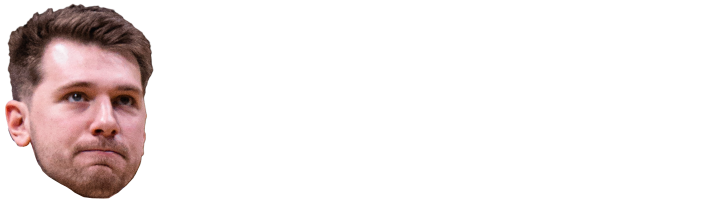
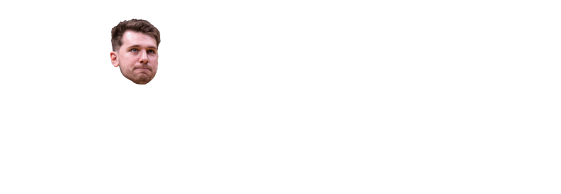
Update README

Changed region(s): [[0.0, 0.0, 0.303, 1.0]]

diff --git a/docs/conf.py b/docs/conf.py
@@ -76,6 +76,10 @@ html_theme_options = {
         "image_light": "_static/banner.png",
         "image_dark": "_static/banner-dark.png",
     },
+    "announcement": (
+        "⚠This package is a under active development."
+        + " Features are untested and may change without notice.⚠"
+    ),
 }
 
 # Sphinx project configuration

diff --git a/README.md b/README.md
@@ -1,3 +1,6 @@
+> [!CAUTION]
+> This package is a work in progress and under active development. Features have not been tested and may change without notice.
+
 [![PyPI](https://img.shields.io/pypi/v/liwca.svg)](https://pypi.org/project/liwca)
 [![Python Versions](https://img.shields.io/pypi/pyversions/liwca.svg)](https://pypi.org/project/liwca)
 [![Downloads](https://static.pepy.tech/badge/liwca)](https://pepy.tech/projects/liwca)
@@ -5,7 +8,7 @@
 [![Tests](https://github.com/remrama/liwca/actions/workflows/tests.yaml/badge.svg)](https://github.com/remrama/liwca/actions/workflows/tests.yaml)
 [![Coverage](https://codecov.io/gh/remrama/liwca/branch/main/graph/badge.svg)](https://codecov.io/gh/remrama/liwca)
 [![Ruff](https://img.shields.io/endpoint?url=https://raw.githubusercontent.com/astral-sh/ruff/main/assets/badge/v2.json)](https://github.com/astral-sh/ruff)
-[![Repo Status](https://www.repostatus.org/badges/latest/active.svg)](https://www.repostatus.org/#active)
+[![Repo Status](https://www.repostatus.org/badges/latest/wip.svg)](https://www.repostatus.org/#wip)
 
 <p align="center">
     <picture>
@@ -15,15 +18,18 @@
     </picture>
 </p>
 
-**_liwca_** (Linguistic Inquiry Word Count Assistant) offers helper functions for working with LIWC dictionaries. Useful when you want end-to-end pipelines or notebook workflows that don't require the LIWC-22 app to be open, or when you just need reusable `.dic[x]` file I/O without writing it from scratch every project. See the [online docs](https://remrama.github.io/liwca).
+**_liwca_** (*LOO-kə*), or **L**inguistic **I**nquiry **W**ord **C**ount **A**ssistant, provides helpers for working with [LIWC](https://www.liwc.app) dictionaries and related text analyses in Python.
 
-Features:
+- Read, write, and merge dictionary files (`.dic`, `dicx`)
+- Generate category and word frequencies
+- Generate Distributed Dictionary Representation ([DDR](https://link.springer.com/article/10.3758/s13428-017-0875-9)) scores
+- Run the LIWC app from Python (requires `LIWC-22-cli` access)
+- Download publicly accessible dictionaries, corpora, and other relevant datasets
 
-- Calling `LIWC-22-cli` from Python
-- Pure-Python word counting (no LIWC-22 needed)
-- Distributed Dictionary Representation scoring
-- Reading, writing, and merging dictionary files (`.dic`/`.dicx`)
-- Downloading public datasets, including dictionaries, corpora, and relevant tables
+See the [online docs](https://remrama.github.io/liwca) for more detail.
+
+> [!NOTE]
+> This is a personal project and not affiliated with the official LIWC app or any of the companies behind it.
 
 ## Installation
 
@@ -33,71 +39,157 @@ pip install --upgrade liwca
 
 ## Usage
 
-### LIWC-22 wrapper
+### Input/output
 
-Requires LIWC-22 app with academic license installed locally.
+Read and write local LIWC-style dictionary files as Pandas DataFrames with schema validation.
 
 ```python
 import liwca
 
-with liwca.Liwc22(count_urls=True) as liwc:
-    outpath = liwc.wc(
-        "data.csv",
-        "liwc-results.csv",
-        dictionary="LIWC22",
-        text_columns="text",
-    )
+# Read a local dic file
+dx = liwca.read_dic("my.dic")
+
+# Read a local dicx file
+dx = liwca.read_dicx("my.dicx")
+
+# Read a local weighted dicx file
+dx = liwca.read_dicx_weighted("myweighted.dicx")
+
+# Create a dictionary from a collection of words
+dx = liwca.create_dx(
+    {
+        "fruit": ["apple*", "pear*"],
+        "vegetables": ["broccoli", "carrot*"],
+    }
+)
+
+# Write the dictionary to a new file of any type
+liwca.write_dic(dx, "fruit.dic")
+liwca.write_dicx(dx, "fruit.dicx")
+liwca.write_dicx_weighted(dx, "fruitweighted.dicx")
 ```
 
 ### Word counting
 
-Pure-Python word counting using LIWC-style dictionaries (no LIWC-22 installation required).
+Get category-level frequency scores for each text in a corpus. This will provide similar results to `liwca.Liwc22().wc()`, but does not require the LIWC-22 app and has the optional benefit of returning word-level frequencies. This is possible because the [CountVectorizer](https://scikit-learn.org/stable/modules/generated/sklearn.feature_extraction.text.CountVectorizer.html) from `scikit-learn` is used to calculate frequencies instead of the LIWC-22 app.
 
-```python
-import liwca
-from liwca.datasets import dictionaries
-texts = ["I feel happy today", "This is a sad story"]
-dx = dictionaries.fetch_emfd()
-
-# Return results at document level
-doc_scores = liwca.count(texts, dx)
-
-# Return results at document and word level
-doc_scores, word_scores = liwca.count(texts, dx, return_words=True)
-```
-
-### Input/output
-
-Read and write LIWC-style dictionary files with schema validation.
+> [!WARNING]
+> Because the LIWC-22 app is not used to generate frequencies here, proprietary dictionaries built into the LIWC-22 app (e.g., `LIWC2015`, `LIWC22`) are not supported in `liwca.count()`.
 
 ```python
 import liwca
 
-# Read a dic file
-dx = liwca.read_dic("my.dic")
+# Generate some sample data
+food_texts = [
+    "My friends likes apples.",
+    "She prefers pears over carrots.",
+    "What I would do for a carrot right now!",
+    "I am excited for pancakes tomorrow morning.",
+]
+food_categories = {
+    "fruit": ["apple*", "pear*"],
+    "vegetables": ["broccoli", "carrot*"],
+}
+food_dx = liwca.create_dx(food_categories)
 
-# Read a dicx file
-dx = liwca.read_dicx("my.dicx")
+# Return results at the category and word levels
+cat_scores, word_scores = liwca.count(food_texts, food_dx, return_words=True)
 
-# Read a weighted dicx file
-dx = liwca.read_dicx_weighted("myweighted.dicx")
+cat_scores
+# Category  WC  fruit  vegetables
+# text_id
+# 0          4   0.25    0.000000
+# 1          5   0.20    0.200000
+# 2          9   0.00    0.111111
+# 3          7   0.00    0.000000
 
-# Write to any similar file type
-dx.write_dic("mynew.dic")
-dx.write_dicx("mynew.dicx")
-dx.write_dicx_weighted("mynewweighted.dicx")
+word_scores
+#          WC  apples  broccoli    carrot  carrots  pears
+# text_id
+# 0         4    0.25       0.0       0.0      0.0    0.0
+# 1         5     0.0       0.0       0.0      0.2    0.2
+# 2         9     0.0       0.0  0.111111      0.0    0.0
+# 3         7     0.0       0.0       0.0      0.0    0.0
 ```
 
-### Downloading datasets
+### LIWC-22 CLI wrapper
 
-Fetch public datasets, including dictionaries and corpora.
+The primary benefits of the LIWC-22 CLI wrapper are:
+
+- Opens and closes the LIWC-22 app automatically and keeps it in the background (GUI does not open)
+- Pure Python implementation (e.g., cleaner scripts if pre/post operations are also in Python)
+- Cleaner argument names (e.g., text_columns instead of id_columns)
+- Cleaner argument types (e.g., bool True/False instead of yes/no strings)
+- Improved formatting for results output file (e.g., keep original row ID column name instead of renaming to id)
+
+> [!CAUTION]
+> This feature requires the LIWC-22 app installed locally from an academic license. See the [LIWC-22 CLI help page](https://www.liwc.app/help/cli) for more info.
+
+```python
+import liwca
+import pandas as pd
+
+texts = pd.Series(food_texts)
+outpath = "./test_results.csv"
+
+with liwca.Liwc22() as liwc:
+    liwc.wc(texts, outpath, include_categories=["Tone", "ppron", "food", "death"])
+
+cat_scores = pd.read_csv(outpath, index_col=0)
+#          Tone  ppron   food  death
+# Row ID
+# 1       99.00  25.00   0.00      0
+# 2       20.23  20.00   0.00      0
+# 3       20.23  11.11   0.00      0
+# 4       99.00  14.29  14.29      0
+
+cat_scores.dtypes
+# Tone     float64
+# ppron    float64
+# food     float64
+# death      int64
+# dtype: object
+```
+
+### Fetch public datasets
+
+The `liwca.datasets` subpackage has multiple modules for fetching publicly available resources. Fetching includes downloading the file (if not already downloaded), caching it in local storage (to prevent re-downloading next time), preprocessing the file to fit standard formats, and also caching the preprocessed version.
 
 ```python
 from liwca.datasets import corpora, dictionaries
 
-data = corpora.fetch_cmu_book_summaries()
+texts = corpora.fetch_hippocorpus()
+texts.columns
+# Index(['AssignmentId', 'WorkTimeInSeconds', 'WorkerId', 'annotatorAge',
+#        'annotatorGender', 'annotatorRace', 'distracted', 'draining',
+#        'frequency', 'importance', 'logTimeSinceEvent', 'mainEvent', 'memType',
+#        'mostSurprising', 'openness', 'recAgnPairId', 'recImgPairId',
+#        'similarity', 'similarityReason', 'story', 'stressful', 'summary',
+#        'timeSinceEvent'],
+#       dtype='str')
+
+texts["story"].head()
+# 0    Concerts are my most favorite thing, and my bo...
+# 1    The day started perfectly, with a great drive ...
+# 2    It seems just like yesterday but today makes f...
+# 3    Five months ago, my niece and nephew were born...
+# 4    About a month ago I went to burning man. I was...
+# Name: story, dtype: str
+
 dx = dictionaries.fetch_threat()
-results = liwca.count(data, dx)
+# Category     threat
+# DicTerm
+# accidents         1
+# accusations       1
+# advised           1
+# afraid            1
+# aftermath         1
+# ...             ...
+# woes              1
+# worries           1
+# worry             1
+# worse             1
+# worst             1
 ```
 
 ## Similar projects
@@ -109,12 +201,3 @@ results = liwca.count(data, dx)
 - [sentibank](https://github.com/socius-org/sentibank)
 - [sentidict](https://github.com/andyreagan/sentidict)
 - [Shifterator](https://github.com/ryanjgallagher/shifterator)
-
-### Dataset resources
-
-- [Noah's ARK](https://noahs-ark.github.io) ([archived Noah's ARK](https://www.cs.cmu.edu/~ark))
-- [Psycho/Neurolinguistic Databases & Resources](https://www.reilly-coglab.com/data)
-- [LitBank](https://github.com/dbamman/litbank)
-- [DreamBank](https://github.com/mattbierner/DreamScrape)
-- [Shifterator lexicons](https://github.com/ryanjgallagher/shifterator/tree/master/shifterator/lexicons)
-- [Standup comedy transcripts and LIWC results table](https://link.springer.com/article/10.1186/s40359-024-02187-6)
